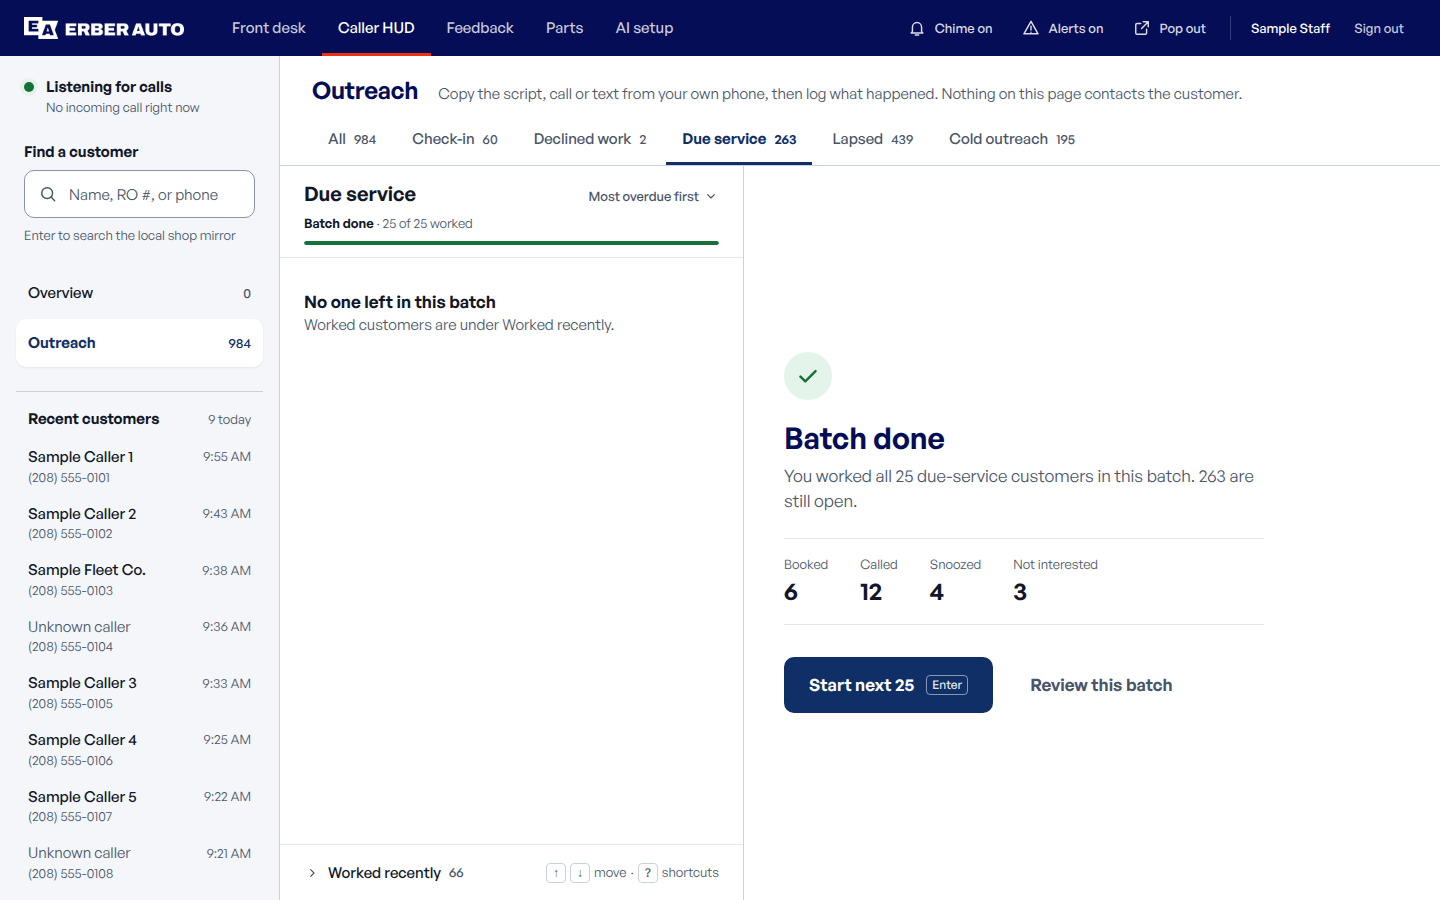
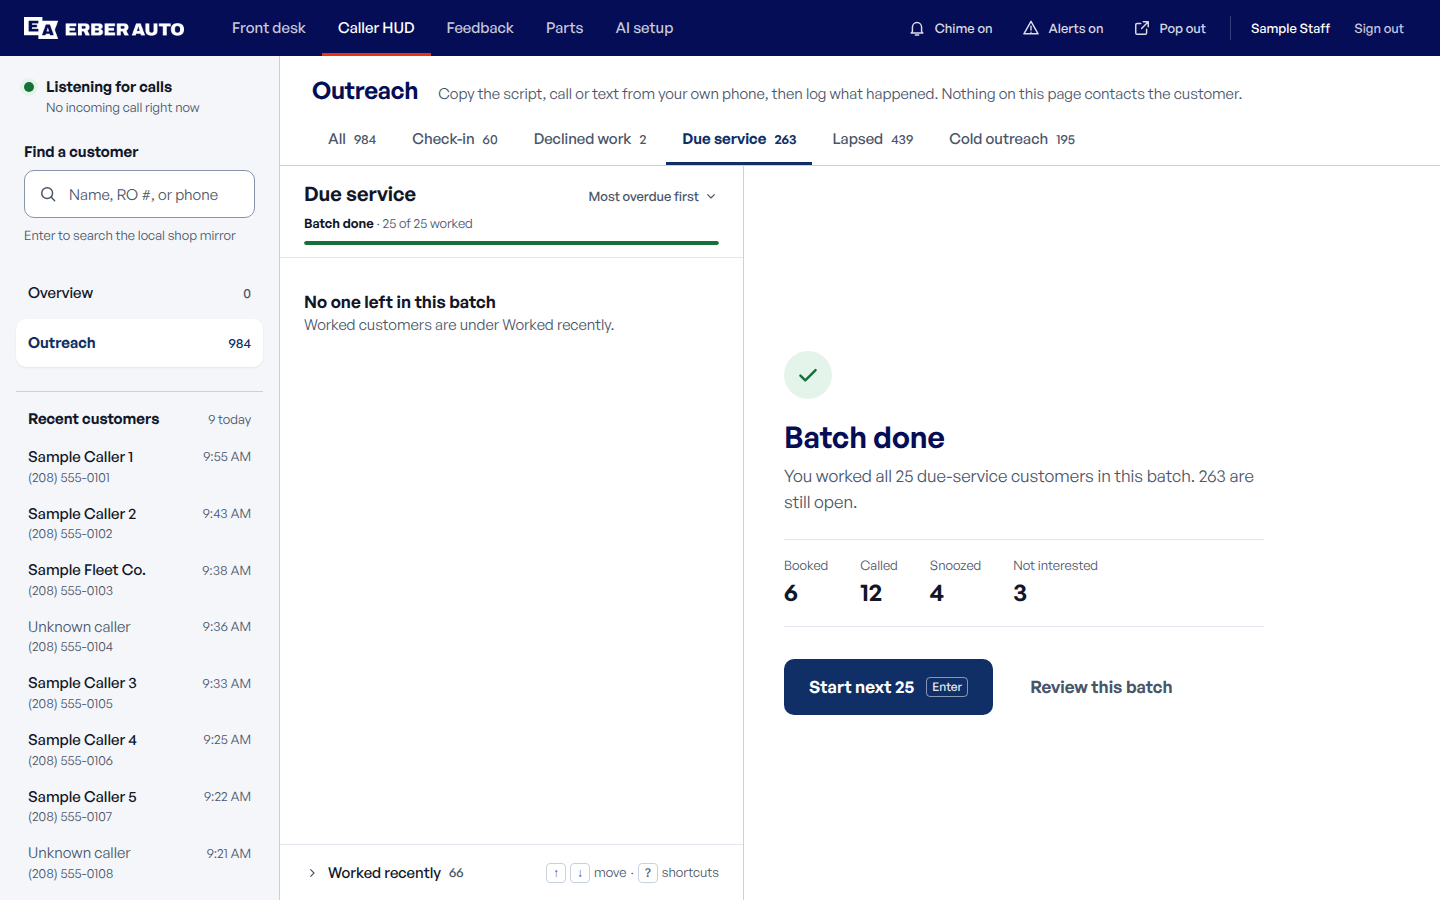
Hill-climb round 2: explicit leading on empty/done paragraphs

diff --git a/outreach-review/mockup.css b/outreach-review/mockup.css
@@ -306,7 +306,7 @@ h1 { font-size: var(--text-xl); font-weight: var(--weight-semibold); line-height
 .done-ico { display: inline-flex; width: 48px; height: 48px; border-radius: 50%; align-items: center; justify-content: center; background: var(--color-success-bg); color: var(--color-success); }
 .done-ico .ico { width: 26px; height: 26px; stroke-width: 2.25; }
 .done h2 { font-size: var(--text-2xl); font-weight: var(--weight-semibold); line-height: var(--leading-tight); color: var(--color-navy-dark); margin-top: var(--space-5); }
-.done > p { font-size: var(--text-base); color: var(--color-text-muted); margin-top: var(--space-2); }
+.done > p { font-size: var(--text-base); line-height: 1.55; color: var(--color-text-muted); margin-top: var(--space-2); }
 .tally { display: flex; gap: var(--space-8); margin-top: var(--space-6); padding: var(--space-4) 0; border-top: 1px solid var(--hairline); border-bottom: 1px solid var(--hairline); }
 .tally dt { font-size: var(--text-xs); color: var(--color-text-muted); }
 .tally dd { font-size: var(--text-xl); font-weight: var(--weight-semibold); }
@@ -316,7 +316,7 @@ h1 { font-size: var(--text-xl); font-weight: var(--weight-semibold); line-height
 .empty { flex: 1; display: flex; flex-direction: column; align-items: flex-start; justify-content: center; padding: 0 0 var(--space-10) calc(var(--space-10) * 3); max-width: 760px; }
 .empty-ico { width: 40px; height: 40px; fill: none; stroke: var(--color-border-strong); stroke-width: 1.5; stroke-linejoin: round; }
 .empty h2 { font-size: var(--text-2xl); font-weight: var(--weight-semibold); color: var(--color-navy-dark); line-height: var(--leading-tight); margin-top: var(--space-4); }
-.empty p { font-size: var(--text-base); color: var(--color-text-muted); margin-top: var(--space-2); max-width: 52ch; }
+.empty p { font-size: var(--text-base); line-height: 1.55; color: var(--color-text-muted); margin-top: var(--space-2); max-width: 52ch; }
 .empty-actions { display: flex; gap: var(--space-3); margin-top: var(--space-6); }
 
 /* ---------- Toast ---------- */
